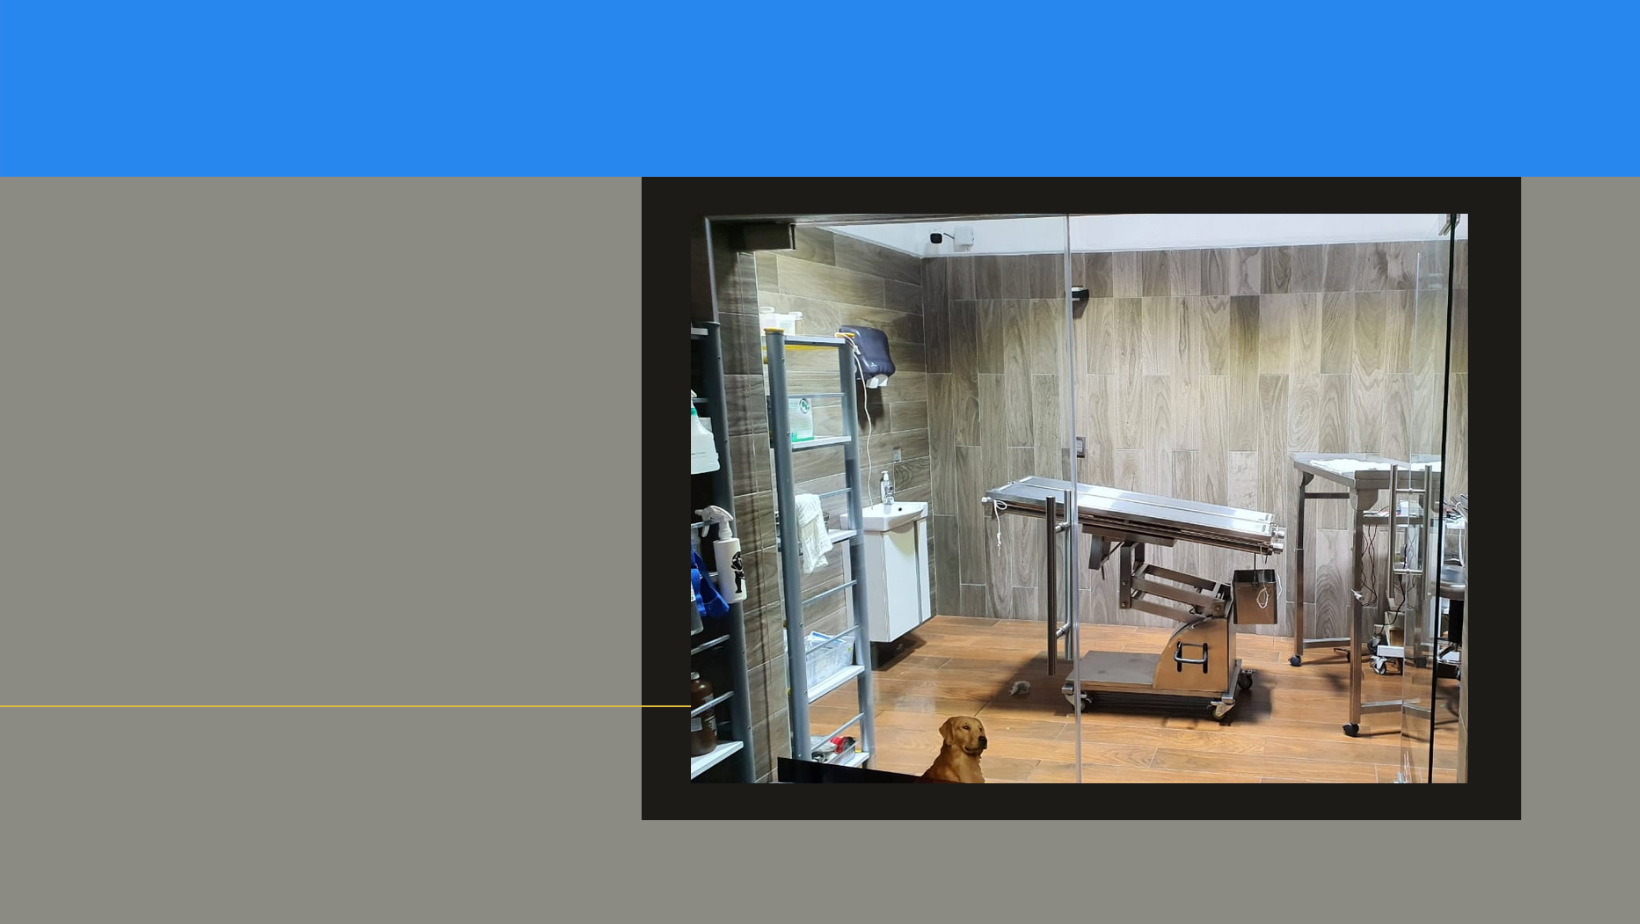
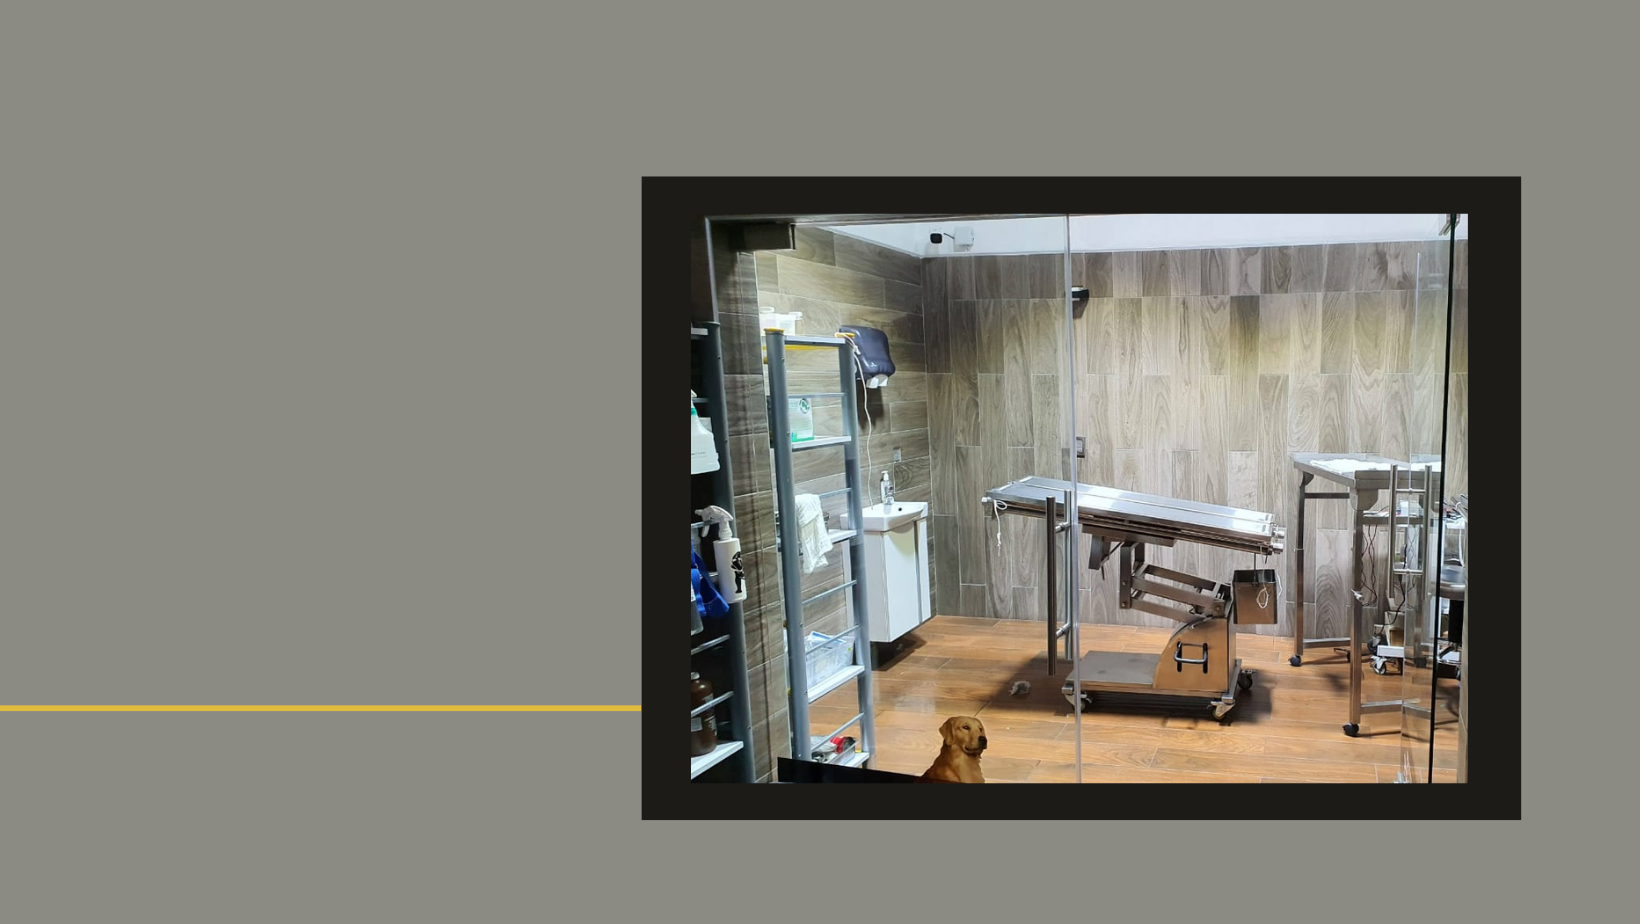
color de about

Changed region(s): [[0.0, 0.0, 1.0, 0.2121], [0.0, 0.7576, 0.4043, 0.7879]]

diff --git a/style.css b/style.css
@@ -553,7 +553,7 @@ white-space: normal;}
 
 ************************************/
 
-#about{background:#2DA0E0;}
+#about{background:#EFF7F9;}
 .about-inner{padding:81px 51px 81px 81px;}
 
 .about-inner .section-title{text-align:left;}
